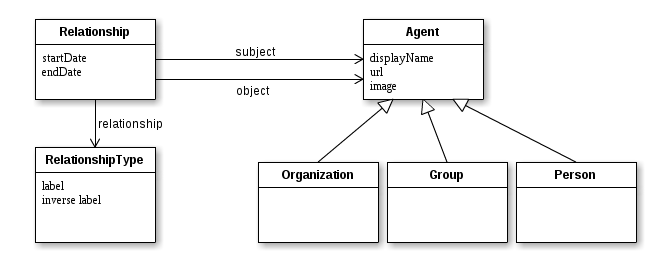
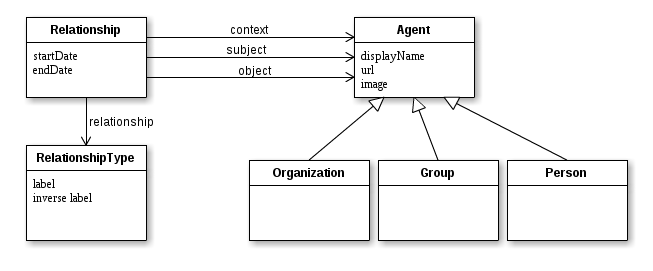
Rough (!) first draft of the human readable documentation for Agent vocab.

Changed region(s): [[0.0306, 0.0595, 0.9801, 0.9219], [0.3369, 0.3271, 0.4288, 0.3569], [0.7351, 0.4164, 0.7657, 0.4461]]

diff --git a/README.md b/README.md
@@ -2,16 +2,77 @@
 
 Vocabulary to describe networks of people and groups.
 
-## Examples
+## Vocabulary
 
-All examples open in [JSON-LD Playground](http://json-ld.org/playground)
+![agentpic](https://github.com/valueflows/agent/tree/master/assets/agent.png)
+
+Notes: 
+* This vocabulary is very much in process, as is this documentation. 
+* Many of the terms will in the future be drawn from an existing vocabulary.
+* All examples open in [JSON-LD Playground](http://json-ld.org/playground)
 and use context and example files from master branch of this repository.
 
-### Person
+### Agent Type
+
+#### Notes
+
+We are using a class hierarchy of Agent Types: Agent, Person, Organization, Group.  We will use existing vocabularies for the top levels.  We suggest that people add other types of agents as subclasses of this hierarchy if others are useful.
+
+### Relationship Type
+
+#### Notes
+
+A Relationship Type is a generic defined relationship that can be had between 2 Agents (or subclasses of). Although it usually is, the relationship does not have to be agreed to from both sides, for example "follow".   A Relationship Type can be a direct relationship, like "steward" or "like", or more like a role.  Role type Relationship Types are often used for a person's role in an organization or group, for example "grower" or "harvester" for a food network.
+
+The Relationship Type is implemented as a rdf:Property.  There are a number of useful properties in existing vocabularies that can be used.  Or people can create their own as needed.
+
+#### Properties
+
+These properties are grouped with the rdf:Property that names the relationship type.
+
+* label (rdfs:label)
+* inverse label (owl:inverseOf rdfs:label)
+* (need to add the source, target, context types.....)
+
+#### Examples
+
+### Agent
+
+#### Notes
+
+An Agent is an entity that has agency in the economic realm.  This could be a person, organization, group, network, etc.  
+
+#### Properties
+
+* id
+* type
+* displayName
+* url
+* image
+* (will be others)
+
+#### Examples
+
+##### Person
 
 * [elf Pavlik](http://json-ld.org/playground/#startTab=tab-compacted&json-ld=https%3A%2F%2Frawgit.com%2Fvalueflows%2Fagent%2Fmaster%2Fexamples%2Felf-pavlik.jsonld&context=https%3A%2F%2Frawgit.com%2Fvalueflows%2Fagent%2Fmaster%2Fexamples%2Felf-pavlik.jsonld)
 
-### Group
+##### Group
 
 * [hackers4peace](http://json-ld.org/playground/#startTab=tab-compacted&json-ld=https%3A%2F%2Frawgit.com%2Fvalueflows%2Fagent%2Fmaster%2Fexamples%2Fhackers4peace.jsonld&context=https%3A%2F%2Frawgit.com%2Fvalueflows%2Fagent%2Fmaster%2Fexamples%2Fhackers4peace.jsonld)
 * [Taabir](http://json-ld.org/playground/#startTab=tab-compacted&json-ld=https%3A%2F%2Frawgit.com%2Fvalueflows%2Fagent%2Fmaster%2Fexamples%2Ftaabir.jsonld&context=https%3A%2F%2Frawgit.com%2Fvalueflows%2Fagent%2Fmaster%2Fexamples%2Ftaabir.jsonld)
+
+### Relationship
+
+#### Notes
+
+A Relationship in this vocabulary denotes a relationship between 2 Agents of any type.  The relationship can be in the context of an Agent that is a context type agent, which would not be a Person.  For example, Jane is a mentor of John in the context of the group Enspiral.
+
+#### Properties
+
+* subject (reference to an agent)
+* relationship (reference to the relationship type)
+* object (reference to an agent)
+* context (reference to an agent, optional)
+
+#### Examples
